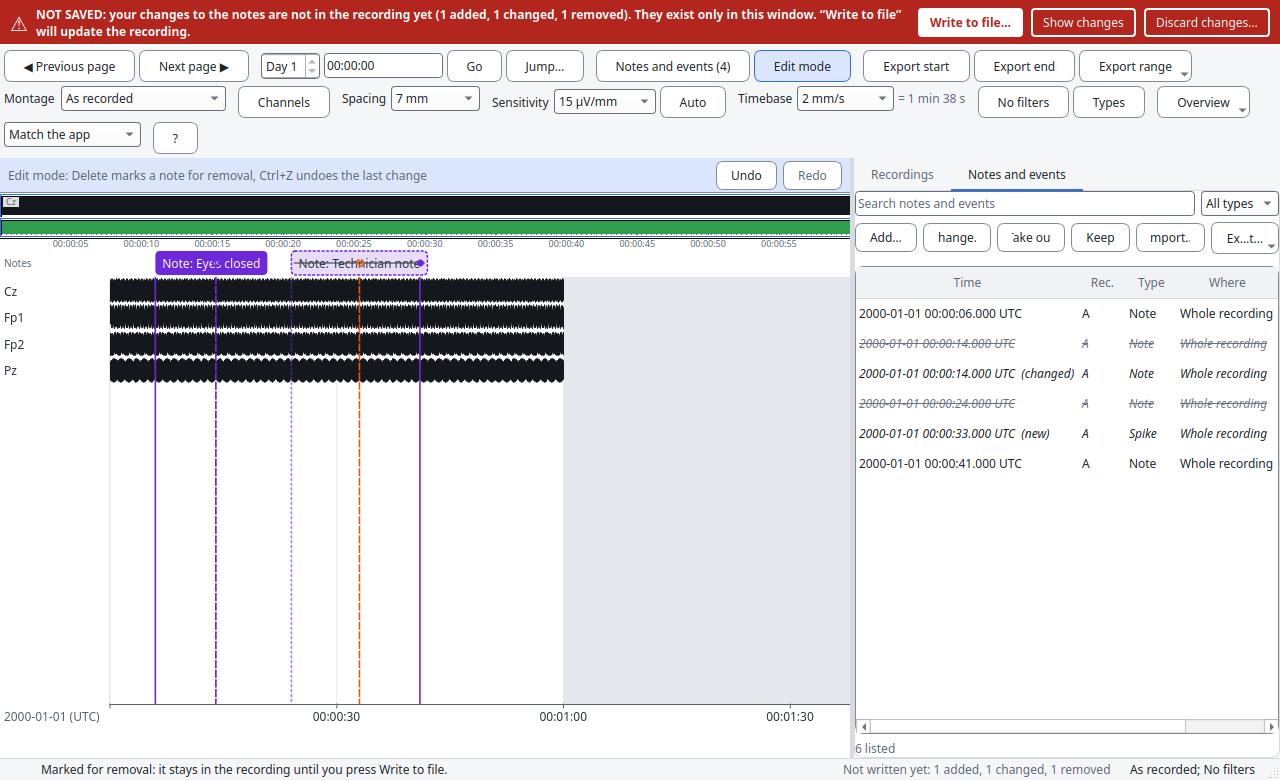
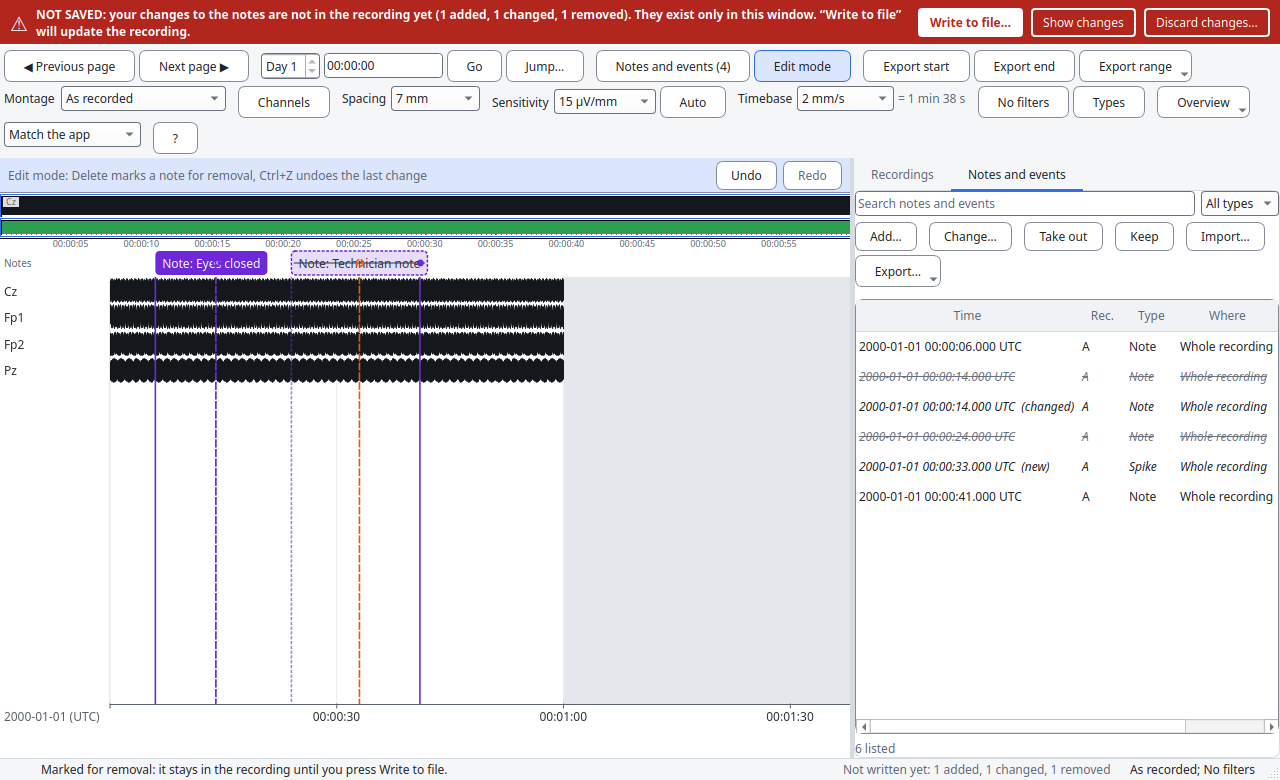
Release v0.1.6: viewer screenshots, Mac keys in the notes, wrapping notes-list buttons
- scripts/screenshots.py waits for the page and the overview (and opens the data anew per
  theme), answers --help; the two edit-mode viewer shots regenerated
- the notes-list edit buttons wrap instead of being clipped in a narrow panel
- release notes name the Mac keys for the hour and day moves

Claude-Session: https://claude.ai/code/session_01YLGN67gC39DqCEX82MjC8T

Changed region(s): [[0.6562, 0.2769, 1.0, 0.6462]]

diff --git a/scripts/screenshots.py b/scripts/screenshots.py
@@ -9,7 +9,6 @@ PR review.
 from __future__ import annotations
 
 import os
-import sys
 import tempfile
 import time
 from pathlib import Path
@@ -330,12 +329,12 @@ def viewer_shots(app, window, out: Path) -> None:
                 signal = 40 * np.sin(2 * np.pi * (5 + k) * t) + 8 * np.sin(2 * np.pi * 23 * t)
                 w.write(name, np.round(signal, 2), t0, fs)
             w.write_annotations(notes)
-        data = open_recordings([str(path)])
-        for ch in data.channels:
-            data.rate(ch), data.units(ch), data.ownership(ch)
         for mode in ("light", "dark"):
             window.set_theme_mode(mode)
             _settle(app)
+            data = open_recordings([str(path)])  # closing a viewer closes its data: open anew
+            for ch in data.channels:
+                data.rate(ch), data.units(ch), data.ownership(ch)
             win = ViewerWindow(data, theme=window.themes.theme, reveal=lambda i: True)
             win.resize(1280, 780)
             win.show()
@@ -351,7 +350,16 @@ def viewer_shots(app, window, out: Path) -> None:
                 win.controller.loading or not win.controller.wait_idle(0.05)
             ):
                 app.processEvents()
-            _settle(app, 1.5)
+            deadline = time.monotonic() + 60  # the overview band has every lane it shows
+            band = win.overview_band
+            while time.monotonic() < deadline and not (
+                band.channels and all(ch in band.data for ch in band.channels)
+            ):
+                app.processEvents()
+                time.sleep(0.02)
+            if not (band.channels and all(ch in band.data for ch in band.channels)):
+                raise SystemExit("the overview did not load: no screenshot of an empty page")
+            _settle(app, 0.5)
             win.edit.set_on(True)
             win.edit.add(t0 + 33 * sec, None, "Spike", "sharp wave")
             marks = {m.text: m for m in win.marks}
@@ -370,8 +378,15 @@ def viewer_shots(app, window, out: Path) -> None:
             dialog.close()
             win.edit.draft.clear()
             win.close()
-        data.close()
 
 
 if __name__ == "__main__":
-    main(sys.argv[1] if len(sys.argv) > 1 else "screenshots")
+    import argparse
+
+    parser = argparse.ArgumentParser(
+        description="Render the app offscreen (light and dark) for the documentation: the main "
+        "window, Explore, the Anonymize steps and the signal viewer in edit mode. "
+        "Made-up recordings only."
+    )
+    parser.add_argument("folder", nargs="?", default="screenshots", help="where to save the PNGs")
+    main(parser.parse_args().folder)

diff --git a/src/mef3io_studio/viewer/side_panel.py b/src/mef3io_studio/viewer/side_panel.py
@@ -31,6 +31,7 @@ from PySide6.QtWidgets import (
 
 from ..model import timefmt
 from ..model import viewer_marks as vm
+from .flow import FlowLayout
 from .recordings import readable_on
 
 ALL_TYPES = "All types"
@@ -139,8 +140,7 @@ class NotesTab(QWidget):
         top.addWidget(self.type_box)
         # Edit mode: add / change / take out / import; Export is always there.
         self.edit_bar = QWidget(self)
-        bar = QHBoxLayout(self.edit_bar)
-        bar.setContentsMargins(0, 0, 0, 0)
+        bar = FlowLayout(self.edit_bar, margin=0)  # the buttons wrap when the panel is narrow
         self.add_button = QPushButton("Add…", self.edit_bar)
         self.add_button.setToolTip("Add a note or event at the pointer (A)")
         self.edit_button = QPushButton("Change…", self.edit_bar)
@@ -164,7 +164,6 @@ class NotesTab(QWidget):
             self.import_button,
         ):
             bar.addWidget(b)
-        bar.addStretch(1)
         self.edit_bar.setVisible(False)
         self.export_button = QToolButton(self)
         self.export_button.setText("Export…")

diff --git a/docs/release-notes/0.1.6.md b/docs/release-notes/0.1.6.md
@@ -37,8 +37,8 @@ note taken out) stays in the viewer window until you press **Write to file**.
 - **Removing a stored note only marks it** (struck through). Delete again, the
   menu, or Ctrl+Z brings it back. A note stored twice asks whether to mark one
   copy or all.
-- **Marking many notes is easy and fast:** in the notes list, Shift or Ctrl click
-  and Ctrl+A select several notes, Delete marks them all in one step, **Keep**
+- **Marking many notes is easy and fast:** in the notes list, Shift or Ctrl (⌘ on a Mac) click
+  and Ctrl+A (⌘A) select several notes, Delete marks them all in one step, **Keep**
   brings them back. It stays quick with 50,000 notes.
 - After a write the viewer says exactly what is in the file ("Written to the
   recording: 1 added, 1 changed, 1 removed"). If a write stops half way, it says
@@ -89,7 +89,8 @@ network drives. What you will notice:
 - **Moving through days.** The timeline bar shows where there is data (a pause
   inside a recording is a gap), the dates at midnight, and what is under the
   pointer ("There is data here" or "No data: a gap of 3 h"). Ctrl+Right /
-  Ctrl+Left move one hour, with Shift one day, and `.` / `,` jump to the next or
+  Ctrl+Left move one hour and Ctrl+Shift+Right / Left one day (on a Mac:
+  Alt+Shift+Right / Left and Command+Option+Right / Left), and `.` / `,` jump to the next or
   previous stretch with data. **Go** takes a date and time. (The faint picture
   of one channel that the bar used to draw is gone: the overview band above it
   shows the same, better.)
